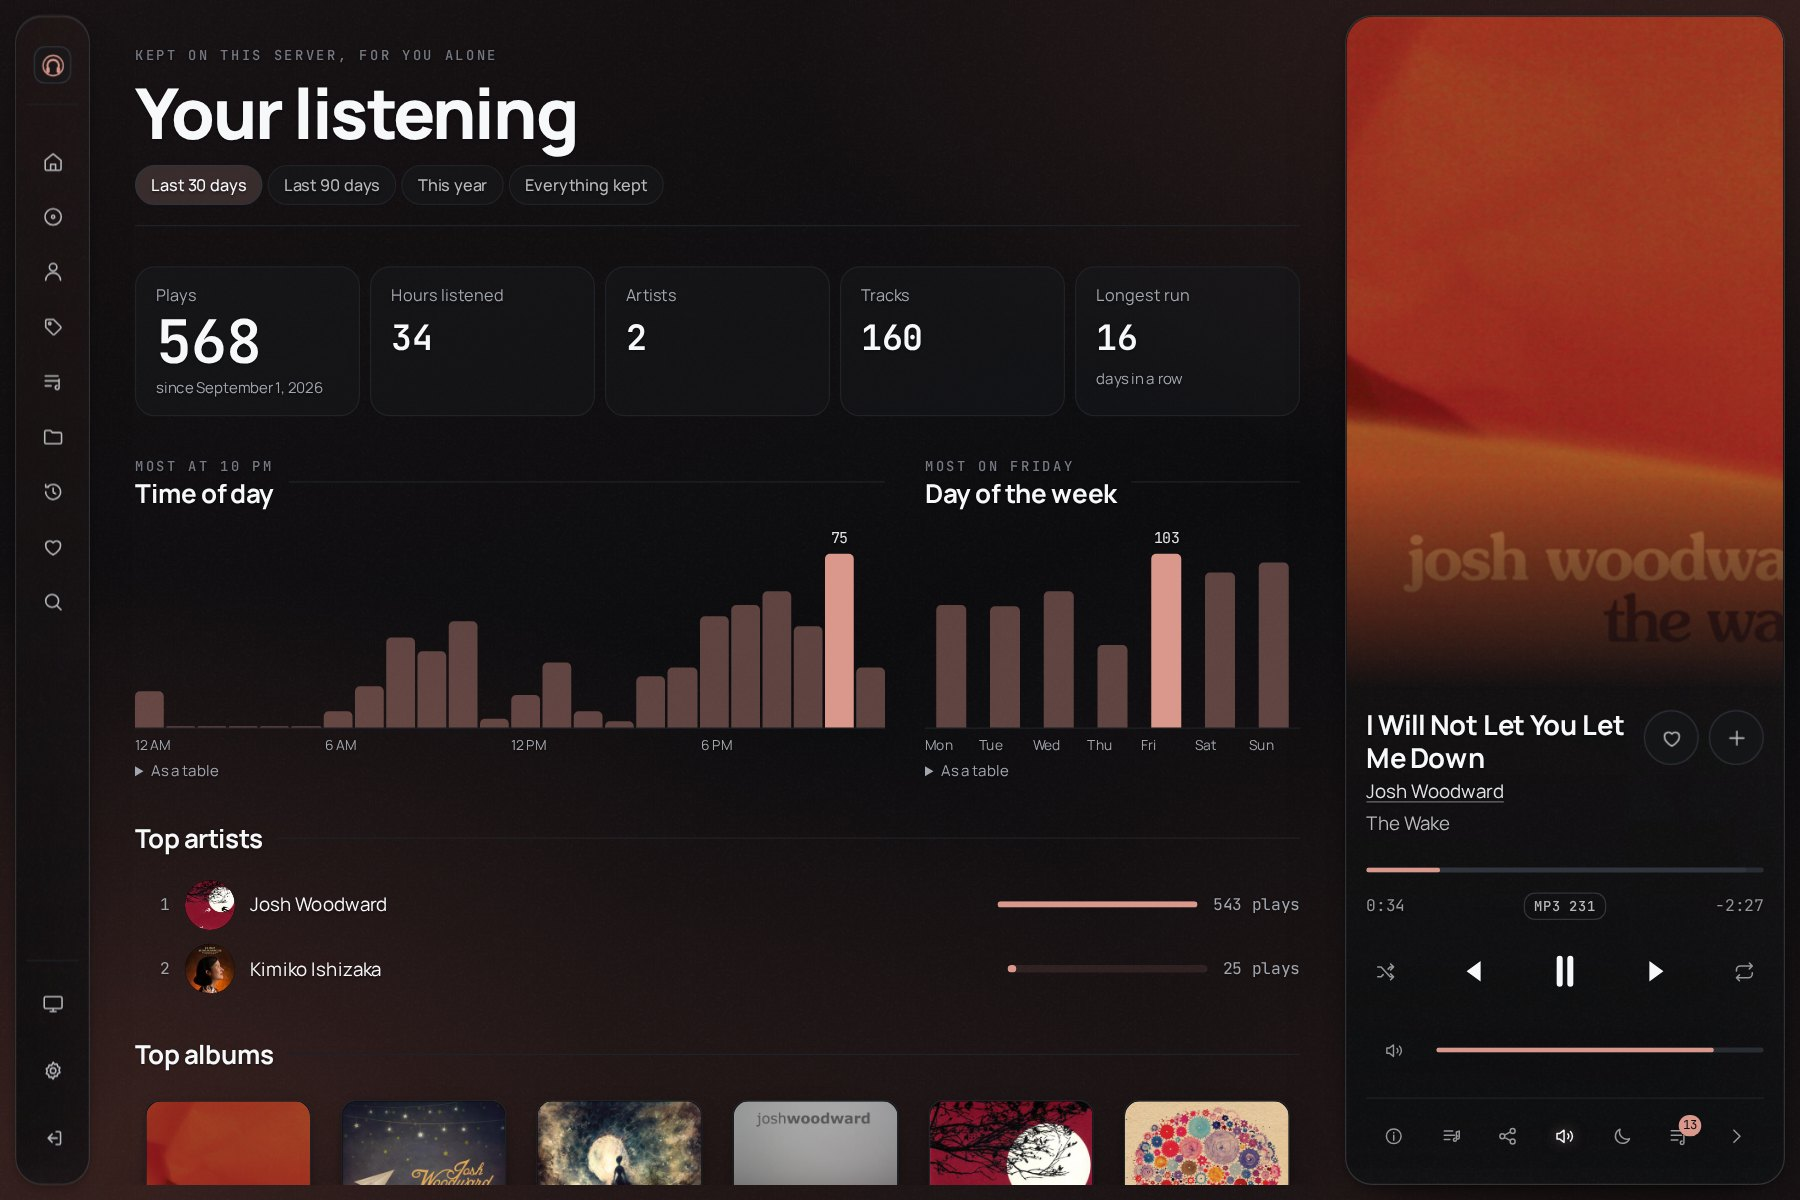
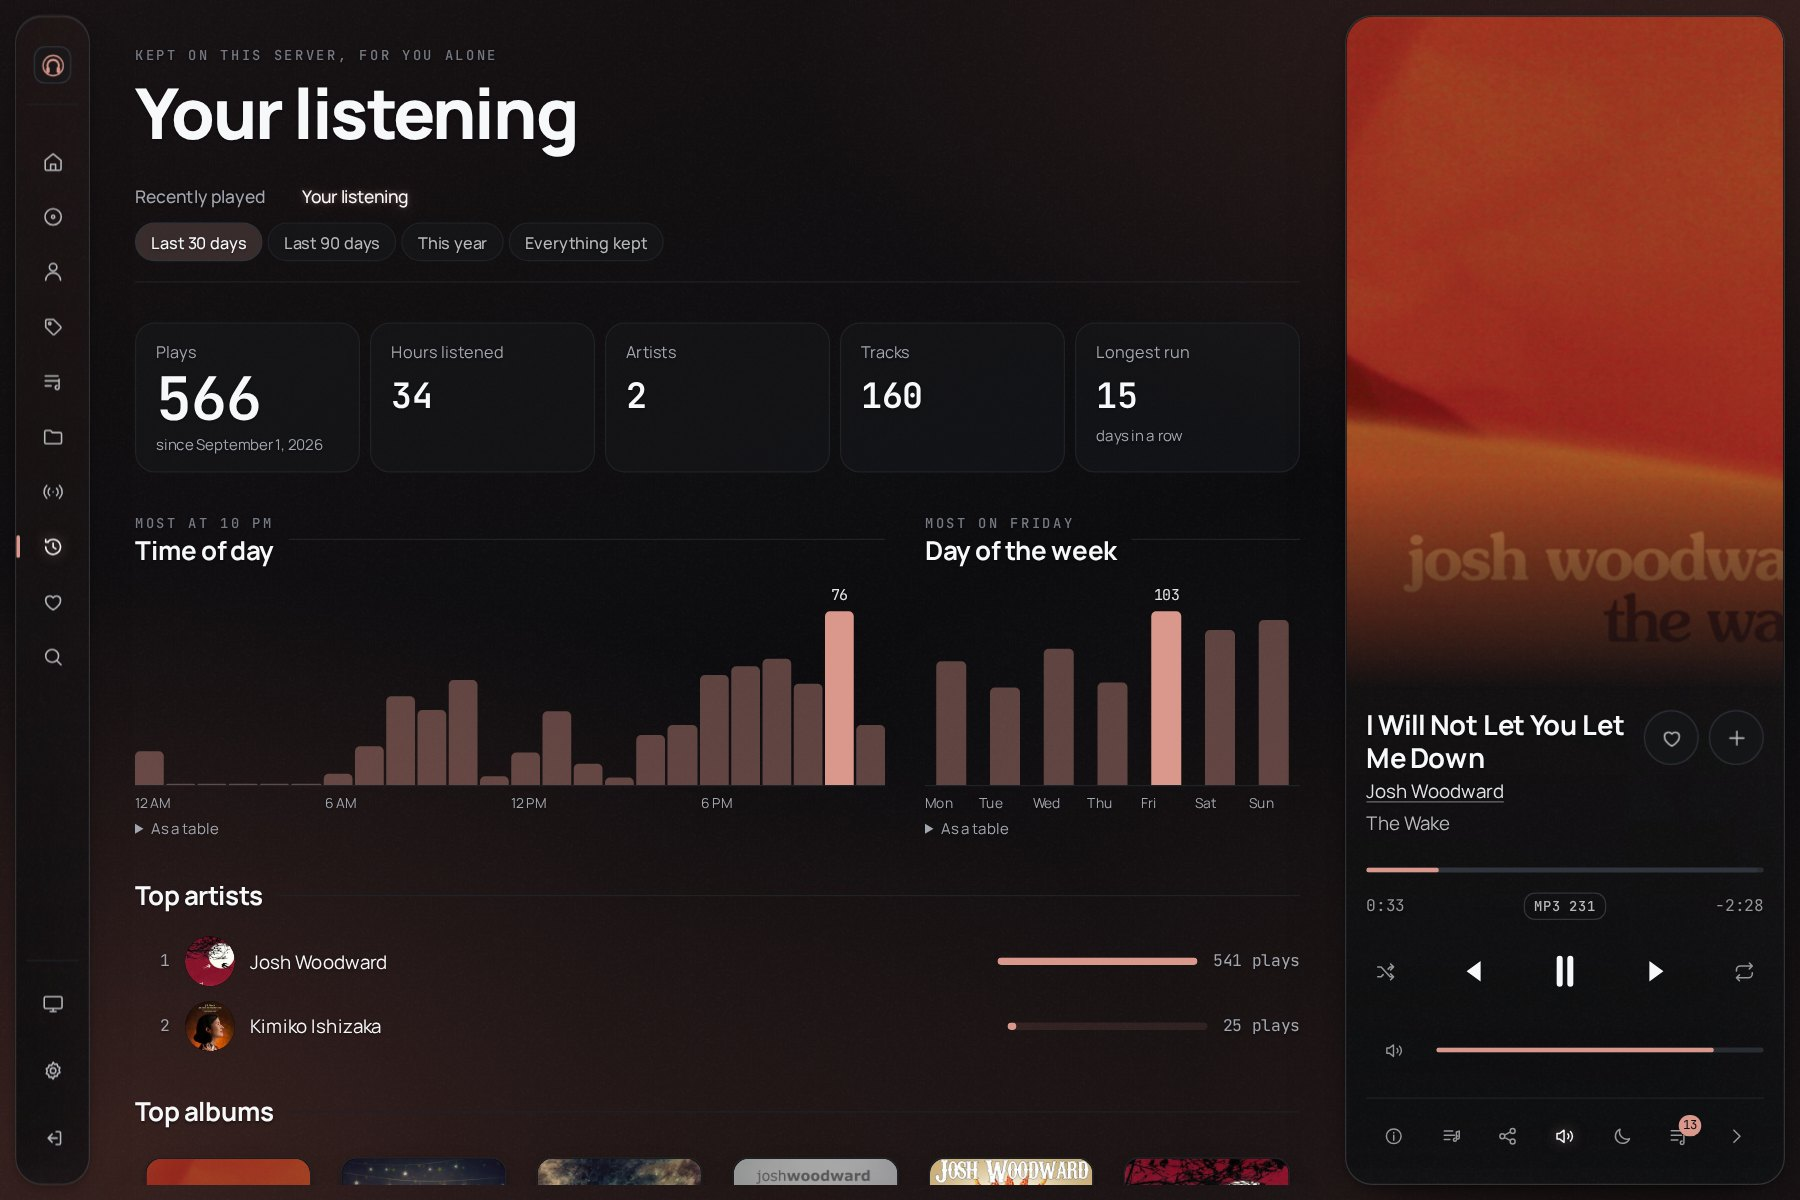
feat: the screenshots in Liquid and in Paper, shown by the page's theme
capture.mjs takes each shot twice: name.jpg as the app is served, and
name-light.jpg a second later with data-theme changed on the root, so the
track, the scroll and what is open are the same in both. The page carries both
images for each capture and its theme shows its own. Both are lazy, so the
other theme's are fetched only when the switch is pressed, and the room takes
its colour from the one on screen.

The capture puts away the card that offers the desktop app, which 0.5 shows
over the page once something has played. The container that fetches the
library is named hh-shots-fetch. The shots are retaken on 0.5.0: Your listening
now counts 566 plays.

diff --git a/index.html b/index.html
@@ -99,15 +99,12 @@
 					<figure class="sleeve" data-tint>
 						<div class="sleeve-turn">
 							<div class="plate">
-								<img
-									src="assets/shots/album.jpg"
-									width="1800"
-									height="1200"
-									alt="Heddohon on an album page of Bach played by Kimiko Ishizaka, 24-bit FLAC, with the now-playing panel on the right, both tinted gold by the cover"
-								/>
+								<img data-for="dark" src="assets/shots/album.jpg" width="1800" height="1200" alt="Heddohon on an album page of Bach played by Kimiko Ishizaka, 24-bit FLAC, with the now-playing panel on the right, both tinted gold by the cover" loading="lazy" />
+								<img data-for="light" src="assets/shots/album-light.jpg" width="1800" height="1200" alt="Heddohon on an album page of Bach played by Kimiko Ishizaka, 24-bit FLAC, with the now-playing panel on the right, both tinted gold by the cover" loading="lazy" />
 								<span class="sheen" aria-hidden="true"></span>
 							</div>
-							<img class="pocket" src="assets/shots/phone-player.jpg" width="786" height="1704" alt="" aria-hidden="true" />
+							<img class="pocket" data-for="dark" src="assets/shots/phone-player.jpg" width="786" height="1704" alt="" aria-hidden="true" loading="lazy" />
+							<img class="pocket" data-for="light" src="assets/shots/phone-player-light.jpg" width="786" height="1704" alt="" aria-hidden="true" loading="lazy" />
 						</div>
 					</figure>
 				</div>
@@ -247,7 +244,7 @@
 					<article class="cell cell--4 pane" data-reveal="rise" data-live>
 						<!-- The figures and the shape of the chart are those of the Your listening screenshot below. -->
 						<div class="vig vig-hours" aria-hidden="true" data-hours>
-							<p class="tally"><span><b data-count="568">568</b> plays</span><span><b data-count="34">34</b> hours</span></p>
+							<p class="tally"><span><b data-count="566">566</b> plays</span><span><b data-count="34">34</b> hours</span></p>
 							<div class="hours">
 								<i style="--v: 0.2"></i><i style="--v: 0.02"></i><i style="--v: 0.02"></i><i style="--v: 0.02"></i><i style="--v: 0.02"></i><i style="--v: 0.02"></i><i style="--v: 0.08"></i><i style="--v: 0.22"></i><i style="--v: 0.5"></i><i style="--v: 0.43"></i><i style="--v: 0.6"></i><i style="--v: 0.04"></i><i style="--v: 0.18"></i><i style="--v: 0.36"></i><i style="--v: 0.08"></i><i style="--v: 0.03"></i><i style="--v: 0.29"></i><i style="--v: 0.33"></i><i style="--v: 0.63"></i><i style="--v: 0.69"></i><i style="--v: 0.77"></i><i style="--v: 0.57"></i><i class="peak" style="--v: 1"></i><i style="--v: 0.33"></i>
 							</div>
@@ -278,30 +275,36 @@
 					</div>
 					<div class="slides">
 						<figure class="slide on" id="slide-lyrics" role="tabpanel" aria-labelledby="tab-lyrics">
-							<img src="assets/shots/lyrics.jpg" width="1800" height="1200" loading="lazy" alt="Synced lyrics from LRCLIB in the now-playing panel, the current line highlighted, above the track details" />
+							<img data-for="dark" src="assets/shots/lyrics.jpg" width="1800" height="1200" alt="Synced lyrics from LRCLIB in the now-playing panel, the current line highlighted, above the track details" loading="lazy" />
+							<img data-for="light" src="assets/shots/lyrics-light.jpg" width="1800" height="1200" alt="Synced lyrics from LRCLIB in the now-playing panel, the current line highlighted, above the track details" loading="lazy" />
 							<figcaption><span class="index">a</span>Synced lyrics, in place of the artwork</figcaption>
 						</figure>
 						<figure class="slide" id="slide-more" role="tabpanel" aria-labelledby="tab-more">
-							<img src="assets/shots/recommendations.jpg" width="1800" height="1200" loading="lazy" alt="An album page scrolled to more albums from the same artist" />
+							<img data-for="dark" src="assets/shots/recommendations.jpg" width="1800" height="1200" alt="An album page scrolled to more albums from the same artist" loading="lazy" />
+							<img data-for="light" src="assets/shots/recommendations-light.jpg" width="1800" height="1200" alt="An album page scrolled to more albums from the same artist" loading="lazy" />
 							<figcaption><span class="index">b</span>More from the artist, under the track list</figcaption>
 						</figure>
 						<figure class="slide" id="slide-listening" role="tabpanel" aria-labelledby="tab-listening">
-							<img src="assets/shots/listening.jpg" width="1800" height="1200" loading="lazy" alt="Your listening over the last 30 days: 568 plays, 34 hours, a chart of plays by the hour of the day and one by the day of the week, and the top artists and albums" />
+							<img data-for="dark" src="assets/shots/listening.jpg" width="1800" height="1200" alt="Your listening over the last 30 days: 566 plays, 34 hours, a chart of plays by the hour of the day and one by the day of the week, and the top artists and albums" loading="lazy" />
+							<img data-for="light" src="assets/shots/listening-light.jpg" width="1800" height="1200" alt="Your listening over the last 30 days: 566 plays, 34 hours, a chart of plays by the hour of the day and one by the day of the week, and the top artists and albums" loading="lazy" />
 							<figcaption><span class="index">c</span>Your listening: the history summed up, by 30 days, 90 days, the year or everything kept</figcaption>
 						</figure>
 						<figure class="slide" id="slide-share" role="tabpanel" aria-labelledby="tab-share">
-							<img src="assets/shots/share.jpg" width="1800" height="1125" loading="lazy" alt="A shared song, playing in the browser without an account" />
+							<img data-for="dark" src="assets/shots/share.jpg" width="1800" height="1125" alt="A shared song, playing in the browser without an account" loading="lazy" />
+							<img data-for="light" src="assets/shots/share-light.jpg" width="1800" height="1125" alt="A shared song, playing in the browser without an account" loading="lazy" />
 							<figcaption><span class="index">d</span>A shared song, for anyone with the link</figcaption>
 						</figure>
 					</div>
 				</div>
 				<div class="phones">
 					<figure class="shot phone" data-tint data-reveal="arrive">
-						<img src="assets/shots/phone-album.jpg" width="786" height="1704" loading="lazy" alt="An album page on a phone, with what is playing and four tabs in one panel at the foot of the screen" />
+						<img data-for="dark" src="assets/shots/phone-album.jpg" width="786" height="1704" alt="An album page on a phone, with what is playing and four tabs in one panel at the foot of the screen" loading="lazy" />
+						<img data-for="light" src="assets/shots/phone-album-light.jpg" width="786" height="1704" alt="An album page on a phone, with what is playing and four tabs in one panel at the foot of the screen" loading="lazy" />
 						<figcaption><span class="index">e</span>The player and the tabs, one panel</figcaption>
 					</figure>
 					<figure class="shot phone" data-tint data-reveal="arrive">
-						<img src="assets/shots/phone-player.jpg" width="786" height="1704" loading="lazy" alt="The full player on a phone, with the cover filling the top of the screen" />
+						<img data-for="dark" src="assets/shots/phone-player.jpg" width="786" height="1704" alt="The full player on a phone, with the cover filling the top of the screen" loading="lazy" />
+						<img data-for="light" src="assets/shots/phone-player-light.jpg" width="786" height="1704" alt="The full player on a phone, with the cover filling the top of the screen" loading="lazy" />
 						<figcaption><span class="index">f</span>Pulled up from it, and down to close</figcaption>
 					</figure>
 					<div class="phones-text" data-reveal="rise">

diff --git a/site.js b/site.js
@@ -86,7 +86,11 @@ const colours = new Map();
 const swatches = [...document.querySelectorAll('.swatch')];
 const ratios = new Map();
 const figures = [...document.querySelectorAll('[data-tint]')];
-const imageOf = (figure) => figure.querySelector('.slide.on img') ?? figure.querySelector('img');
+// Each capture has an image for either theme; the one shown is the one sampled.
+const imageOf = (figure) => {
+	const scope = figure.querySelector('.slide.on') ?? figure;
+	return scope.querySelector(`img[data-for="${root.dataset.theme}"]`) ?? scope.querySelector('img');
+};
 
 function whenLoaded(img) {
 	return img.complete && img.naturalWidth ? Promise.resolve() : new Promise((r) => img.addEventListener('load', r, { once: true }));
@@ -141,6 +145,21 @@ const themeColour = document.querySelector('meta[name="theme-color"]');
 function applyTheme(theme) {
 	root.dataset.theme = theme;
 	themeColour?.setAttribute('content', GROUND[theme]);
+	// The captures change with the theme, and the room takes the new one's colour.
+	pick();
+}
+
+/*
+ * The captures of the theme about to be shown are lazy and not displayed, so
+ * not yet fetched. Those within a screen of the window are fetched as the
+ * switch is pressed, which gives them the length of the veil to arrive.
+ */
+function warm(theme) {
+	for (const img of document.querySelectorAll(`img[data-for="${theme}"]`)) {
+		if (img.closest('.slide:not(.on)')) continue;
+		const box = img.parentElement.getBoundingClientRect();
+		if (box.bottom > -innerHeight && box.top < innerHeight * 2) img.loading = 'eager';
+	}
 }
 applyTheme(root.dataset.theme);
 
@@ -158,6 +177,7 @@ document.querySelector('.theme')?.addEventListener('click', (event) => {
 	try {
 		localStorage.setItem('hh-theme', next);
 	} catch {}
+	warm(next);
 	if (!veil?.animate || reducedMotion.matches) return applyTheme(next);
 
 	const box = event.currentTarget.getBoundingClientRect();

diff --git a/style.css b/style.css
@@ -314,6 +314,14 @@ img {
 	height: auto;
 }
 
+/* Each capture is on the page twice, taken in Liquid and in Paper, and the
+   theme shows its own. Both are lazy, so the other is not fetched until the
+   theme is switched. */
+[data-theme='dark'] img[data-for='light'],
+[data-theme='light'] img[data-for='dark'] {
+	display: none;
+}
+
 h1,
 h2,
 h3 {

diff --git a/README.md b/README.md
@@ -33,7 +33,7 @@ or follows the scroll.
 | `style.css` | Tokens from the app's `app.css`, and the page's layout |
 | `site.js` | Artwork tint, theme switch, sleeve tilt, what arrives on scroll, the scenes in the cards, the screens, the terminal, copy button |
 | `assets/fonts/` | Manrope and JetBrains Mono (latin subset, variable), SIL OFL 1.1 |
-| `assets/shots/` | Screenshots, made by `screenshots/run.sh` |
+| `assets/shots/` | Screenshots in Liquid and in Paper (`-light`), made by `screenshots/run.sh` |
 | `screenshots/` | The scripts that make them |
 | `CNAME` | The custom domain for GitHub Pages |
 
@@ -50,7 +50,9 @@ HEDDOHON_IMAGE=ghcr.io/zorcerer/heddohon:dev screenshots/run.sh
 It downloads a library into the Docker volume `hh-shots-library` (3.8 GB, kept
 for the next run), starts a Navidrome and a Heddohon on a network of their own,
 scans the library, and captures five desktop pages at 1440x960 and two phone
-pages at 393x852 with Playwright. The plays behind `listening.jpg` are mock:
+pages at 393x852 with Playwright. Each is taken twice: `name.jpg` in Liquid and
+`name-light.jpg` in Paper, the same page a second later with the theme changed.
+The site shows the one that matches its own theme. The plays behind `listening.jpg` are mock:
 `capture.mjs` writes about 2,700 of them, spread over 150 days, into
 Heddohon's database. The servers, their data and the network are
 removed at the end. Each shot names its album and track in `capture.mjs`;
